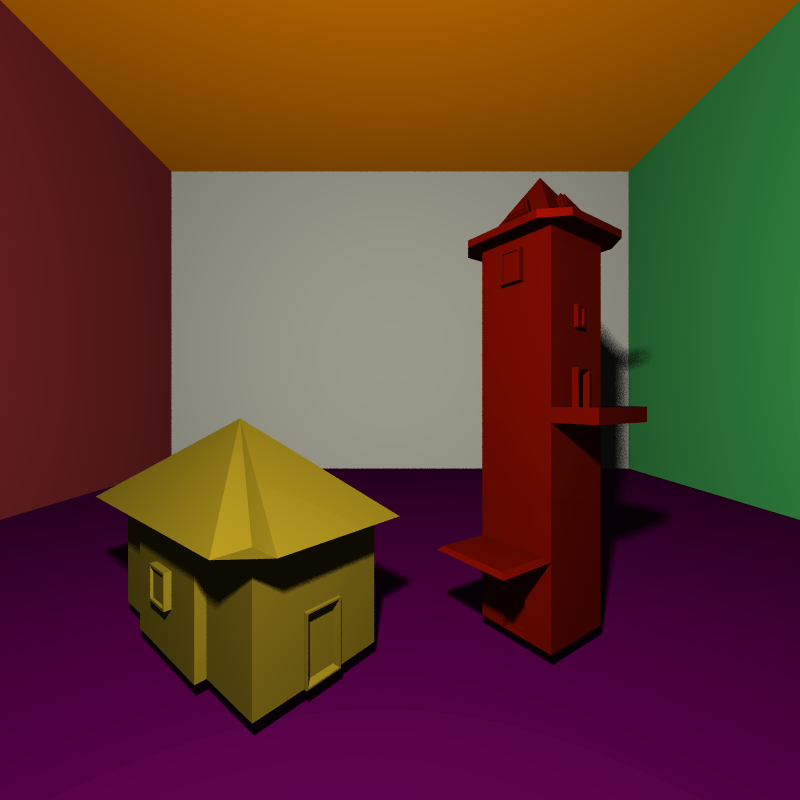
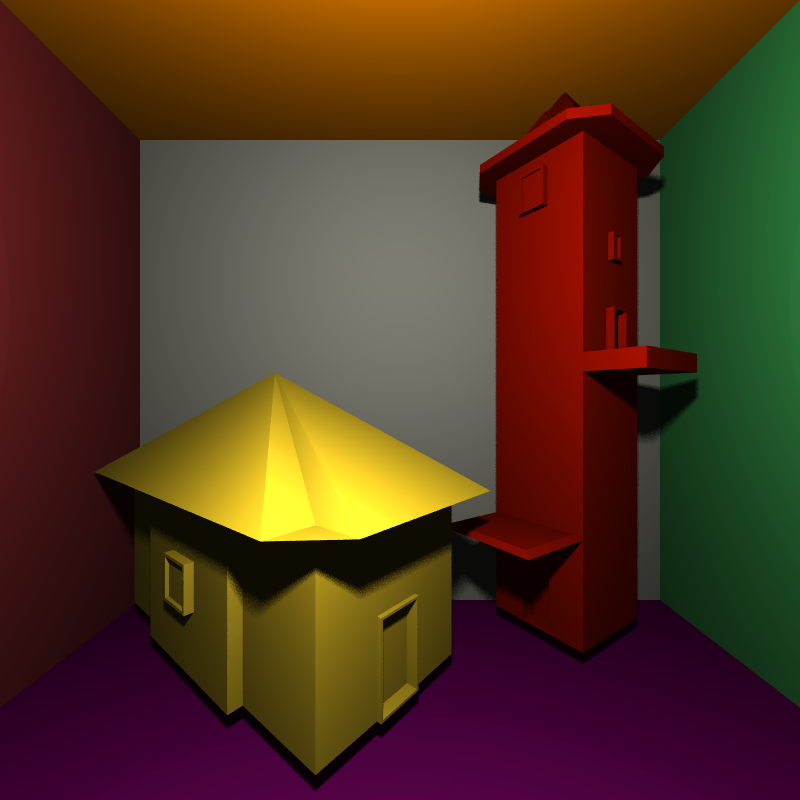
add inverse squared law for light intensity

diff --git a/src/main/java/rendering/shading/PhongShader.java b/src/main/java/rendering/shading/PhongShader.java
@@ -121,8 +121,9 @@ public class PhongShader implements Shader {
         /// unit normal to surface of the shape at the given point
         Vector3D unitNormal = intersectedShape.getUnitNormalAt(intersection);
 
+        /// multiply by illumination intensity at the intersection point due to the given light source
         /// take max with 0, so that only the side of the surface facing the light is illuminated
-        double diffuseMultiplier = light.getIntensity() * Math.max(0.0, lightDirection.scalarProduct(unitNormal));
+        double diffuseMultiplier = light.getIlluminationIntensityAt(intersectionPoint) * Math.max(0.0, lightDirection.scalarProduct(unitNormal));
 
         /// scale the diffuse color by the multiplier, and scale each color channel by diffuse coefficient
         return intersectedShape.getColorAt(intersectionPoint).scaled(diffuseMultiplier)
@@ -157,7 +158,8 @@ public class PhongShader implements Shader {
 
         /// take max with 0, so that only the side of the surface facing the light is illuminated
         double phongMultiplier = Math.pow(Math.max(0.0, reflectionDirection.scalarProduct(viewDirection)), material.getPhongRoughnessCoefficient());
-        double specularMultiplier = light.getIntensity() * phongMultiplier;
+        /// multiply by illumination intensity at the intersection point due to the given light source
+        double specularMultiplier = light.getIlluminationIntensityAt(intersectionPoint) * phongMultiplier;
 
         return light.getColor().scaled(specularMultiplier)
                 .scaledVector3D(material.getSpecularCoefficient());

diff --git a/src/main/java/rendering/tracing/Light.java b/src/main/java/rendering/tracing/Light.java
@@ -10,8 +10,6 @@ import rendering.utility.Vector3D;
  * description nodes named "point-light",
  * and sphere light sources have XML
  * description nodes named "sphere-light".
- *
- * TODO - use Intensity/4r^2pi formula for decreasing light intensity
  */
 
 public interface Light {
@@ -27,7 +25,18 @@ public interface Light {
     double getOcclusionCoefficient(Intersection intersection, Scene scene);
 
     /*
-       Getters to get the position, specular color, and intensity of the light source.
+       Method that takes a point in 3D space, and returns the illumination intensity
+       at that given point due to this light source. Each light source has a
+       defined intensity (power) at its position - depending on how this method is
+       implemented, the illumination intensity can either stay the same everywhere
+       if you return the same intensity as the one at the light's position, or it
+       can fall off in some way as distance increases.
+    */
+    double getIlluminationIntensityAt(Vector3D point);
+
+    /*
+       Getters to get the position, specular color, and intensity of the light source at
+       its position.
      */
     Vector3D getPosition();
     RTColor getColor();

diff --git a/src/main/java/rendering/tracing/PointLight.java b/src/main/java/rendering/tracing/PointLight.java
@@ -12,6 +12,7 @@ import rendering.utility.Vector3D;
 public class PointLight implements Light {
     private final Vector3D position;
     private final RTColor lightSpecularColor;
+    /// the intensity is the power of the light source at its position
     private final double intensity;
 
     public PointLight(Vector3D position, RTColor lightSpecularColor, double intensity){
@@ -44,6 +45,16 @@ public class PointLight implements Light {
             /// point light source is not occluded
             return 1;
         }
+    }
+    /*
+       Method that takes a point in 3D space, and returns the illumination intensity
+       at that given point due to this light source.
+
+       This method calculates the distance from the point light source to the given
+       point and makes the illumination intensity fall off as 1/distance^2.
+    */
+    public double getIlluminationIntensityAt(Vector3D point) {
+        return this.intensity / (4 * this.position.added(point.negated()).magnitudeSquared() * Math.PI);
     }
 
     /**
